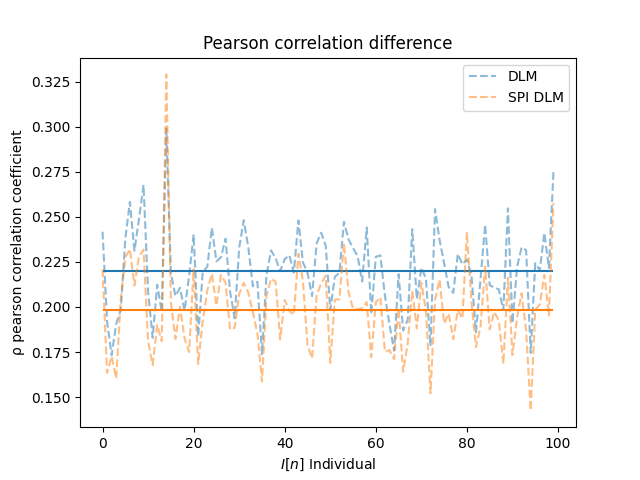
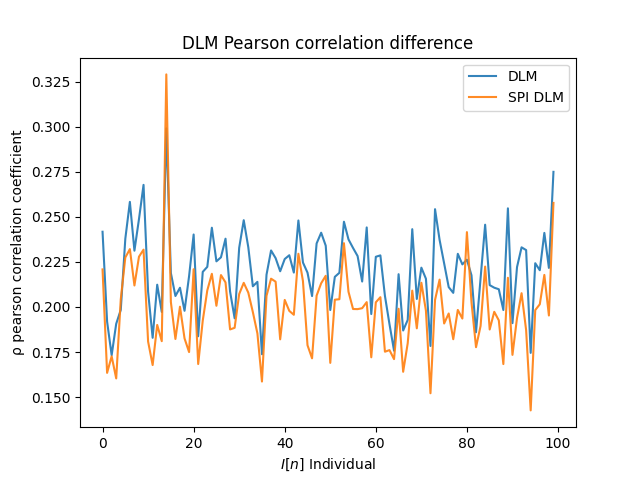
updated

Changed region(s): [[0.1562, 0.1562, 0.875, 0.8438], [0.2812, 0.0625, 0.75, 0.125], [0.75, 0.1562, 0.7812, 0.2188]]

diff --git a/Plots/plot_pearson_FC_FC.py b/Plots/plot_pearson_FC_FC.py
@@ -2,13 +2,15 @@ import os
 
 import numpy as np
 from matplotlib import pyplot as plt
+from scipy.stats import ttest_rel
+
 
 def plot_series_with_mean(x, y, label):
     # Faint line
     line, = plt.plot(
         x, np.abs(y),
-        linestyle='--',
-        alpha=0.5,
+        linestyle='-',
+        alpha=0.9,
         label = label
     )
 
@@ -21,106 +23,51 @@ def plot_series_with_mean(x, y, label):
     )"""
 
     # Mean line
-    mean_val = np.mean(np.abs(y))
+    """mean_val = np.mean(np.abs(y))
     plt.hlines(
         mean_val,
         x.min(),
         x.max(),
         colors=line.get_color(),
         linestyles='-'
-    )
+    )"""
 
-    return mean_val, line.get_color()
+def compute_corr_diff_for(tag):
+    slm_pearson_ = np.fromfile(f"Evaluation/Pearson_values/{tag.lower()}_fc_.bin", dtype=float)
+    slm_pearson_SPI = np.fromfile(f"Evaluation/Pearson_values/{tag.lower()}_fc_SPI.bin", dtype=float)
+
+    if tag.upper() == "NLM":
+        tag = "NLNMM"
+
+    plot_series_with_mean(x, slm_pearson_, f"{tag.upper()}")
+    plot_series_with_mean(x, slm_pearson_SPI, f"SPI {tag.upper()}")
+    diff = slm_pearson_ - slm_pearson_SPI
+    t_stat_uncorrected, p_value_uncorrected = ttest_rel(slm_pearson_, slm_pearson_SPI)
+    print(f"""
+    --- {tag.upper()} Summary ---
+    Mean Difference:          {diff.mean():.4f}
+    t-statistic (uncorrected):{t_stat_uncorrected:.4f}
+    p-value (uncorrected):    {p_value_uncorrected:.2e}
+    Standard Deviations:
+      Series 1 (Pearson):     {slm_pearson_.std():.4f}
+      Series 2 (SPI):         {slm_pearson_SPI.std():.4f}
+      Difference (mean_std):  {diff.std():.4f}
+    """)
+    plt.xlabel("$I[n]$ Individual")
+    plt.ylabel("ρ pearson correlation coefficient")
+    plt.title(f"{tag.upper()} Pearson correlation difference")
+    plt.legend()
+    plt.savefig(f"Figures/correlation_diff_{tag.upper()}.png")
+    plt.close()
 
 if __name__ == "__main__":
     x = np.arange(100)
+
     os.chdir("C:/Users/Johan/PycharmProjects/MPCAS_SOCS_Project_BrainNetworkModdeling")
-    #mean_val_1, colour1 = plot_series_with_mean(x, stochastic_pearson_,"SLM")
-    #mean_val_2, colour2 = plot_series_with_mean(x, stochastic_pearson_SPI, "SPI SLM")
-
-    diff1 = 1#abs(mean_val_1- mean_val_2)
-
-    t = "DLM"
-    diffusion_pearson_ = np.fromfile("Evaluation/Pearson_values/dlm_fc_.bin", dtype=float)
-    diffusion_pearson_SPI = np.fromfile("Evaluation/Pearson_values/dlm_fc_SPI.bin", dtype=float)
-    mean_val_3, colour3 = plot_series_with_mean(x, diffusion_pearson_, "DLM")
-    mean_val_4, colour4 = plot_series_with_mean(x, diffusion_pearson_SPI, "SPI DLM")
-    diff = mean_val_3 - mean_val_4
-    print(f"{t}={diff}")
-
-    plt.xlabel("$I[n]$ Individual")
-    plt.ylabel("ρ pearson correlation coefficient")
-    plt.title("Pearson correlation difference")
-    plt.legend()
-    plt.savefig(f"Figures/correlation_diff_{t}.png")
-
-    t = "NLNMM"
-    diff2 = mean_val_3 - mean_val_4
-    nonLinear_pearson_ = np.fromfile("Evaluation/Pearson_values/nlm_fc_.bin", dtype=float)
-    nonLinear_pearson_SPI = np.fromfile("Evaluation/Pearson_values/nlm_fc_SPI.bin", dtype=float)
-    mean_val_5, colour5 = plot_series_with_mean(x, nonLinear_pearson_, "NLNMM")
-    mean_val_6, colour6 = plot_series_with_mean(x, nonLinear_pearson_SPI, "SPI NLNMM")
-
-    diff = mean_val_3 - mean_val_4
-    print(f"{t}={diff}")
-
-    plt.xlabel("$I[n]$ Individual")
-    plt.ylabel("ρ pearson correlation coefficient")
-    plt.title("Pearson correlation difference")
-    plt.legend()
-    plt.savefig(f"Figures/correlation_diff_{t}.png")
-
-
-    t = "RWM"
-    rwm_pearson_ = np.fromfile("Evaluation/Pearson_values/rwm_fc_.bin", dtype=float)
-    rwm_pearson_SPI = np.fromfile("Evaluation/Pearson_values/rwm_fc_SPI.bin", dtype=float)
-    mean_val_7, colour7 = plot_series_with_mean(x, rwm_pearson_, "RWM")
-    mean_val_8, colour8 = plot_series_with_mean(x, rwm_pearson_SPI, "SPI RWM")
-
-    diff = mean_val_3 - mean_val_4
-    print(f"{t}={diff}")
-
-    plt.xlabel("$I[n]$ Individual")
-    plt.ylabel("ρ pearson correlation coefficient")
-    plt.title("Pearson correlation difference")
-    plt.legend()
-    plt.savefig(f"Figures/correlation_diff_{t}.png")
-
-    t = "SPM"
-    spm_pearson_ = np.fromfile("Evaluation/Pearson_values/spm_fc_.bin", dtype=float)
-    spm_pearson_SPI = np.fromfile("Evaluation/Pearson_values/spm_fc_SPI.bin", dtype=float)
-    mean_val_9, colour9 = plot_series_with_mean(x, spm_pearson_, "SPM")
-    mean_val_10, colour10 = plot_series_with_mean(x, spm_pearson_SPI, "SPI SPM")
-
-    diff = mean_val_3 - mean_val_4
-    print(f"{t}={diff}")
-
-    plt.xlabel("$I[n]$ Individual")
-    plt.ylabel("ρ pearson correlation coefficient")
-    plt.title("Pearson correlation difference")
-    plt.legend()
-    plt.savefig(f"Figures/correlation_diff_{t}.png")
-
-    """text = (
-        f"$\\Delta SLM={diff1:.5f}$\n"
-        f"$\\Delta DLM={diff2:.5f}$\n"
-        f"$\\Delta NLNMM={diff3:.5f}$\n"
-        f"$\\Delta RWM={diff4:.5f}$\n"
-        f"$\\Delta SPM={diff5:.5f}$"
-    )
-    print(text)"""
-
-    """plt.text(
-        0.99, 0.50,
-        text,
-        transform=plt.gca().transAxes,  # use current axes
-        fontsize=15,
-        verticalalignment='top',
-        bbox=dict(
-            boxstyle="round",
-            facecolor="white",
-            edgecolor="blue"
-        )
-    )"""
+    compute_corr_diff_for("SLM")
+    compute_corr_diff_for("DLM")
+    compute_corr_diff_for("NLM")
+    compute_corr_diff_for("RWM")
+    compute_corr_diff_for("SPM")
 
 

diff --git a/optimization/optimize_slm.py b/optimization/optimize_slm.py
@@ -10,7 +10,7 @@ if __name__ == "__main__":
         DTI_data.append(dm.load_DTI_data(i))
         fMRI_data.append(dm.load_fMRI_data(i))
 
-    alpha_range = np.arange(-3, 3, 0.1)
+    alpha_range = np.arange(0.6, 3, 0.1)
     beta_range = np.arange(0, 6, 0.1)
     std_range = np.arange(0.1, 2, 0.1)
     best_alpha, best_beta, best_std, best_fitness = slm.find_best_alpha_beta(individuals, DTI_data, fMRI_data, alpha_range, beta_range,std_range, n_steps=100)

diff --git a/Evaluation/Evaluate_slm.py b/Evaluation/Evaluate_slm.py
@@ -9,7 +9,7 @@ import evaluation_tools as et
 # -------------------------------------------------------------
 # HELPER FUNCTIONS
 # -------------------------------------------------------------
-MODIFIED = False
+MODIFIED = True
 fig = True
 # -------------------------------------------------------------
 # MAIN SCRIPT
